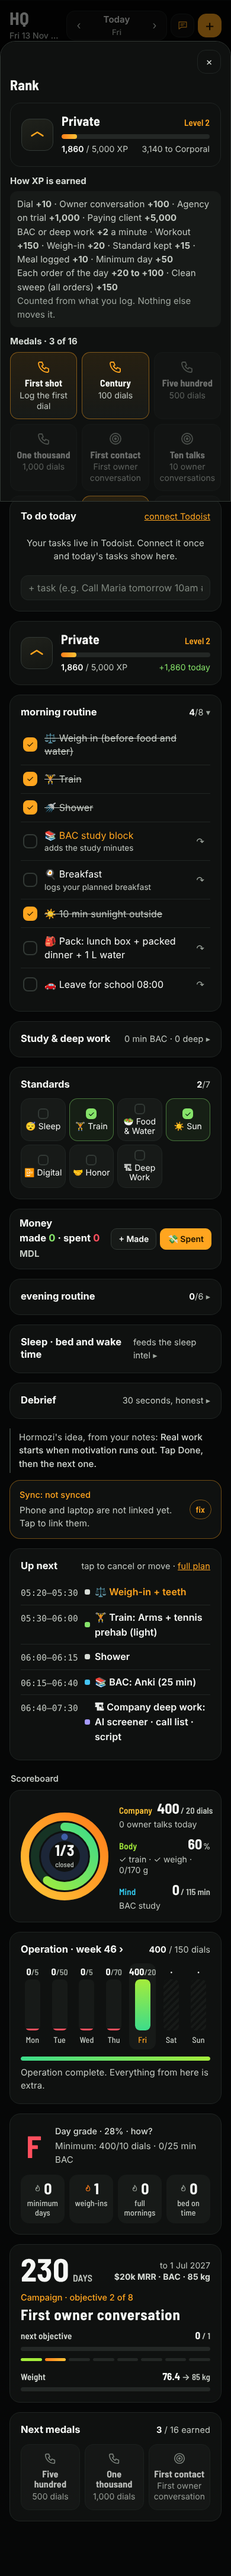
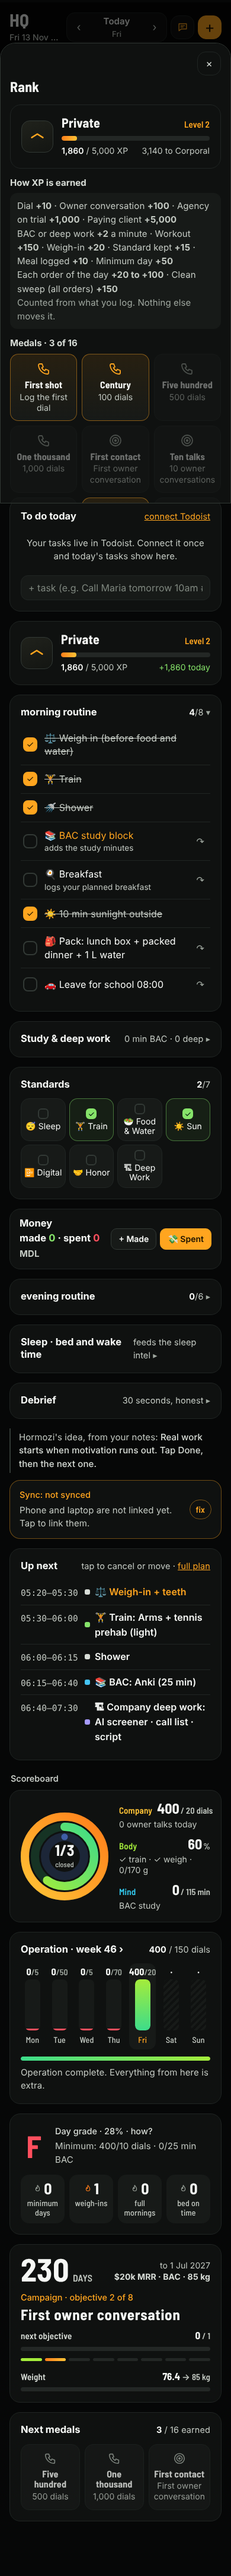
v5.9.5: food AI answers fast — second model races the first after 9 s (first good answer wins), 30 s cap, 1024 px photos; 'put the phone away' logs the meal in the background with a Check toast
Claude-Session: https://claude.ai/code/session_011KYPGP8ex3tqEWd6rc2947

diff --git a/food.js b/food.js
@@ -58,20 +58,20 @@ function aiExplain(msg) {
   return 'The AI service answered with an error. Send Claude the grey text below (never the key).';
 }
 /* every AI request has a hard time limit, so the screen can never hang: a slow model is dropped and the next one is tried */
-let aiAbort = null;
-function aiFetch(url, opt, ms) { const ctl = new AbortController(); aiAbort = ctl; const t = setTimeout(() => ctl.abort('timeout'), ms || 60000); return fetch(url, Object.assign({}, opt, { signal: ctl.signal })).catch((e) => { const err = new Error(ctl.signal.aborted ? (ctl.signal.reason === 'cancel' ? 'Cancelled' : 'TIMEOUT: no answer in ' + Math.round((ms || 60000) / 1000) + ' s') : String(e.message || e)); err.status = ctl.signal.aborted ? 408 : 0; throw err; }).finally(() => clearTimeout(t)); }
-function aiCancel() { if (aiAbort) aiAbort.abort('cancel'); }
+const aiCtls = new Set();
+function aiFetch(url, opt, ms, grp) { const ctl = new AbortController(); aiCtls.add(ctl); if (grp) grp.add(ctl); const t = setTimeout(() => ctl.abort('timeout'), ms || 60000); return fetch(url, Object.assign({}, opt, { signal: ctl.signal })).catch((e) => { const err = new Error(ctl.signal.aborted ? (ctl.signal.reason === 'cancel' ? 'Cancelled' : 'TIMEOUT: no answer in ' + Math.round((ms || 60000) / 1000) + ' s') : String(e.message || e)); err.status = ctl.signal.aborted ? 408 : 0; throw err; }).finally(() => { clearTimeout(t); aiCtls.delete(ctl); if (grp) grp.delete(ctl); }); }
+function aiCancel() { aiCtls.forEach((c) => c.abort('cancel')); }
 const AI_FAST = ['gemini-flash-latest', 'gemini-2.5-flash', 'gemini-flash-lite-latest'];
-async function aiCall(c, b64, hint, model) {
+async function aiCall(c, b64, hint, model, grp) {
   const prompt = AI_PROMPT + (hint ? `\nThe person adds: "${hint}". Trust this over what you see.` : '') + (b64 ? '' : '\nThere is no photo. Estimate from the description only.');
   if (c.provider === 'anthropic') {
     const content = []; if (b64) content.push({ type: 'image', source: { type: 'base64', media_type: 'image/jpeg', data: b64 } }); content.push({ type: 'text', text: prompt });
-    const r = await aiFetch('https://api.anthropic.com/v1/messages', { method: 'POST', headers: { 'content-type': 'application/json', 'x-api-key': c.key, 'anthropic-version': '2023-06-01', 'anthropic-dangerous-direct-browser-access': 'true' }, body: JSON.stringify({ model, max_tokens: 900, messages: [{ role: 'user', content }] }) });
+    const r = await aiFetch('https://api.anthropic.com/v1/messages', { method: 'POST', headers: { 'content-type': 'application/json', 'x-api-key': c.key, 'anthropic-version': '2023-06-01', 'anthropic-dangerous-direct-browser-access': 'true' }, body: JSON.stringify({ model, max_tokens: 900, messages: [{ role: 'user', content }] }) }, 30000, grp);
     const j = await r.json().catch(() => ({})); if (!r.ok) { const e = new Error((j.error && j.error.message) || 'HTTP ' + r.status); e.status = r.status; throw e; }
     return aiParse((j.content || []).filter((x) => x.type === 'text').map((x) => x.text).join(''));
   }
   const parts = []; if (b64) parts.push({ inline_data: { mime_type: 'image/jpeg', data: b64 } }); parts.push({ text: prompt });
-  const send = (cfg) => aiFetch(`https://generativelanguage.googleapis.com/v1beta/models/${encodeURIComponent(model)}:generateContent`, { method: 'POST', headers: { 'content-type': 'application/json', 'x-goog-api-key': c.key }, body: JSON.stringify(Object.assign({ contents: [{ parts }] }, cfg ? { generationConfig: cfg } : {})) }, 60000);
+  const send = (cfg) => aiFetch(`https://generativelanguage.googleapis.com/v1beta/models/${encodeURIComponent(model)}:generateContent`, { method: 'POST', headers: { 'content-type': 'application/json', 'x-goog-api-key': c.key }, body: JSON.stringify(Object.assign({ contents: [{ parts }] }, cfg ? { generationConfig: cfg } : {})) }, 30000, grp);
   // accuracy first: the model keeps its full reasoning (portion sizes are where estimates go wrong); the time limit + fallback protect against hangs
   const think = /gemini-2\.5/.test(model) && !/lite/.test(model) ? { thinkingConfig: { thinkingBudget: 2048 } } : {};
   let r = await send(Object.assign({ temperature: 0.2, responseMimeType: 'application/json' }, think)), j = await r.json().catch(() => ({}));
@@ -82,17 +82,28 @@ async function aiCall(c, b64, hint, model) {
   if (!text) throw new Error('The model sent an empty answer' + (cand.finishReason ? ' (' + cand.finishReason + ')' : ''));
   return aiParse(text);
 }
-/* Try the saved model, then the alternates. A model that is missing or out of quota is skipped; a bad key stops at once. */
+/* Fast and accurate at once: the best model starts first; if it has not answered in 9 s a second model starts in parallel,
+   and the first good answer wins (the other request is cancelled). Overload gets one quick retry; a bad key stops at once. */
+const AI_HEDGE_MS = 9000;
+function aiFatal(e) { return /Cancelled/.test(e.message) || /API key not valid|API_KEY_INVALID|location is not supported/i.test(e.message) || !(e.status === 404 || e.status === 408 || e.status === 429 || e.status === 503 || e.status === 500 || e.status === 400 || e.status === 0 || /not found|quota|overloaded|unavailable|high demand|TIMEOUT|JSON|empty/i.test(e.message)); }
 async function aiEstimate(b64, hint, cfgOverride) {
   const c = cfgOverride || aiCfg(); if (!c.key) throw new Error('Photo AI is not set up yet');
-  const list = [c.model].concat(c.alts || [], c.provider === 'anthropic' ? ['claude-haiku-5-5'] : AI_FAST).filter((x, i, a) => x && a.indexOf(x) === i).slice(0, 5);
-  let last = null;
-  for (const m of list) {
-    aiStatus.model = m; aiStatus.tries++; aiTick();
-    try { const t0 = Date.now(); let out; try { out = await aiCall(c, b64, hint, m); } catch (e1) { if (!(e1.status === 503 || /high demand|overloaded|UNAVAILABLE/i.test(e1.message))) throw e1; await new Promise((r) => setTimeout(r, 1500)); out = await aiCall(c, b64, hint, m); } out.ms = Date.now() - t0; if (!cfgOverride && m !== c.model) { c.alts = list.filter((x) => x !== m); c.model = m; try { localStorage.setItem(FOOD_AI_KEY, JSON.stringify(c)); } catch (e) { } if (c.shared) { try { aiShare(c, true); } catch (e) { } } } out.model = m; return out; }
-    catch (e) { last = e; last.model = m; if (/Cancelled/.test(e.message) || /API key not valid|API_KEY_INVALID|location is not supported/i.test(e.message) || !(e.status === 404 || e.status === 408 || e.status === 429 || e.status === 503 || e.status === 500 || e.status === 400 || e.status === 0 || /not found|quota|overloaded|unavailable|TIMEOUT|JSON|empty/i.test(e.message))) break; }
-  }
-  throw last || new Error('No model answered');
+  const list = [c.model].concat(c.alts || [], c.provider === 'anthropic' ? ['claude-haiku-5-5'] : AI_FAST).filter((x, i, a) => x && a.indexOf(x) === i).slice(0, 4);
+  const one = async (m, grp) => { try { return await aiCall(c, b64, hint, m, grp); } catch (e1) { if (!(e1.status === 503 || /high demand|overloaded|UNAVAILABLE/i.test(e1.message))) throw e1; await new Promise((r) => setTimeout(r, 1200)); return aiCall(c, b64, hint, m, grp); } };
+  return new Promise((resolve, reject) => {
+    let idx = 0, running = 0, done = false, last = null, primaryFailed = false; const groups = []; const t0 = Date.now();
+    const finish = (fn, v) => { if (done) return; done = true; clearInterval(hedge); groups.forEach((g) => g.forEach((x) => x.abort('cancel'))); fn(v); };
+    const launch = () => {
+      if (done || idx >= list.length) return false; const m = list[idx++], grp = new Set(); groups.push(grp); running++; aiStatus.model = m; aiStatus.tries++; aiTick();
+      one(m, grp).then((out) => { if (done) return; groups.splice(groups.indexOf(grp), 1); out.ms = Date.now() - t0; out.model = m;
+        if (!cfgOverride && m !== c.model && primaryFailed) { /* remember the model that actually answers */ c.alts = list.filter((x) => x !== m); c.model = m; try { localStorage.setItem(FOOD_AI_KEY, JSON.stringify(c)); } catch (e) { } if (c.shared) { try { aiShare(c, true); } catch (e) { } } }
+        finish(resolve, out); })
+        .catch((e) => { running--; if (done) return; last = e; e.model = m; if (m === list[0]) primaryFailed = true; if (aiFatal(e)) { finish(reject, e); return; } if (!launch() && running === 0) finish(reject, last); });
+      return true;
+    };
+    const hedge = setInterval(() => { if (!done && running < 2) launch(); }, AI_HEDGE_MS);
+    launch();
+  });
 }
 function foodAiModal() {
   const c = aiCfg(), prov = c.provider || 'gemini';
@@ -134,7 +145,7 @@ function foodSnap() { foodInputs(); $('food-cam').click(); }
 function foodPick() { foodInputs(); $('food-lib').click(); }
 async function foodFile(file) {
   let im; try { im = await loadImage(file); } catch (e) { toast('Could not read that photo'); return; }
-  const big = scaleImage(im, 1280, 0.82), thumb = scaleImage(im, 420, 0.8);
+  const big = scaleImage(im, 1024, 0.82), thumb = scaleImage(im, 420, 0.8);
   foodDraft = { id: uid(), name: '', kcal: '', p: '', c: '', f: '', mult: 1, items: [], photo: big, thumb, src: 'photo', isNew: true };
   if (view !== 'food') { view = 'food'; curDate = new Date(); curDate.setHours(0, 0, 0, 0); render(); }
   if (!aiOn()) { foodForm(); return; }
@@ -144,14 +155,25 @@ async function foodAnalyze(hint) {
   const d = foodDraft; if (!d) return;
   aiStatus = { t0: Date.now(), model: '', tries: 0 };
   openModal(`<h2>${d.photo ? 'Reading your plate' : 'Estimating your meal'}</h2>${d.photo ? `<img class="fphoto" src="${d.photo}" alt="">` : ''}<div class="scan"><div class="sp"></div><div class="lab" id="ai-prog">Estimating calories and macros…</div></div>
-    <div class="row" style="gap:8px;margin-top:12px"><button class="btn grow" onclick="aiCancel()">Cancel</button><button class="btn grow" onclick="aiCancel();setTimeout(()=>{foodDraft&&(delete foodDraft.err);foodForm()},50)">Type it instead</button></div>`, true);
+    <button class="btn primary block" style="margin-top:12px" onclick="foodBg()">Put the phone away · I'll log it when ready</button>
+    <div class="row" style="gap:8px;margin-top:8px"><button class="btn grow" onclick="aiCancel()">Cancel</button><button class="btn grow" onclick="aiCancel();setTimeout(()=>{foodDraft&&(delete foodDraft.err);foodForm()},50)">Type it instead</button></div>`, true);
   clearInterval(aiTimer); aiTimer = setInterval(aiTick, 1000);
-  try { const r = await aiEstimate(d.photo ? d.photo.split(',')[1] : '', hint || d.hint || ''); if (foodDraft !== d) return;
-    Object.assign(d, { name: r.name, kcal: r.kcal, p: r.p, c: r.c, f: r.f, items: r.items, conf: r.conf, note: r.note, base: { kcal: r.kcal, p: r.p, c: r.c, f: r.f }, mult: 1, src: 'ai', hint: hint || d.hint || '' }); foodForm();
-  } catch (e) { if (foodDraft !== d) return; if (/Cancelled/.test(e.message)) { clearInterval(aiTimer); return; } d.err = (/TIMEOUT/.test(e.message) ? 'No model answered in time. Check the internet connection, then tap Estimate again.' : aiExplain(e.message)) + ' (' + (e.model ? e.model + ': ' : '') + String(e.message || e).slice(0, 140) + ')'; foodForm(); }
+  try { const r = await aiEstimate(d.photo ? d.photo.split(',')[1] : '', hint || d.hint || '');
+    Object.assign(d, { name: r.name, kcal: r.kcal, p: r.p, c: r.c, f: r.f, items: r.items, conf: r.conf, note: r.note, base: { kcal: r.kcal, p: r.p, c: r.c, f: r.f }, mult: 1, src: 'ai', hint: hint || d.hint || '' });
+    if (d.bg) { foodBgDone(d); clearInterval(aiTimer); return; } if (foodDraft !== d) return; foodForm();
+  } catch (e) { if (d.bg) { clearInterval(aiTimer); foodBgFail(d, e); return; } if (foodDraft !== d) return; if (/Cancelled/.test(e.message)) { clearInterval(aiTimer); return; } d.err = (/TIMEOUT/.test(e.message) ? 'No model answered in time. Check the internet connection, then tap Estimate again.' : aiExplain(e.message)) + ' (' + (e.model ? e.model + ': ' : '') + String(e.message || e).slice(0, 140) + ')'; foodForm(); }
   clearInterval(aiTimer);
 }
-let aiStatus = { t0: 0, model: '', tries: 0 }, aiTimer = null;
+let aiStatus = { t0: 0, model: '', tries: 0 }, aiTimer = null, foodBgN = 0;
+/* background estimate: close the sheet, keep going; when the answer lands the meal is logged and a toast lets you check it */
+function foodBg() { const d = foodDraft; if (!d) return; d.bg = true; d.day = dk(curDate); foodBgN++; foodDraft = null; closeModal(); render(); toast('Estimating in the background. You\u2019ll get a note when it\u2019s logged.'); }
+function foodBgDone(d) {
+  foodBgN = Math.max(0, foodBgN - 1); const t = new Date(), rec = { id: d.id, t: pad(t.getHours()) + ':' + pad(t.getMinutes()), name: d.name || 'Meal', kcal: Number(d.kcal) || 0, p: Number(d.p) || 0, c: Number(d.c) || 0, f: Number(d.f) || 0, src: 'ai' };
+  if (d.photo) rec.ph = 1; meals(d.day).push(rec); if (d.thumb) phPut(d.id, dataUrlBlob(d.thumb)); touch(day(d.day)); render();
+  try { navigator.vibrate && navigator.vibrate([20, 40, 20]); } catch (e) { }
+  toast(`Logged: ${rec.name} · ${rec.kcal} kcal · ${rec.p} g protein`, 'Check', () => { curDate = pd(d.day); show('food'); foodEdit(rec.id); });
+}
+function foodBgFail(d, e) { foodBgN = Math.max(0, foodBgN - 1); render(); d.bg = false; d.err = aiExplain(e.message) + ' (' + (e.model ? e.model + ': ' : '') + String(e.message || e).slice(0, 120) + ')'; toast('The meal estimate failed', 'Fix it', () => { foodDraft = d; show('food'); foodForm(); }); }
 function aiTick() { const el = $('ai-prog'); if (!el) return; const s = Math.round((Date.now() - aiStatus.t0) / 1000); el.textContent = s < 6 ? 'Estimating calories and macros…' : `Waiting for ${aiStatus.model || 'the AI'} · ${s} s${aiStatus.tries > 1 ? ' · try ' + aiStatus.tries : ''}`; }
 function foodForm() {
   const d = foodDraft; if (!d) return; const sv = foodState().saved, ai = aiOn();
@@ -217,6 +239,7 @@ function renderFood() {
   const days = []; for (let i = 6; i >= 0; i--) { const d = addDays(curDate, -i), t = foodTotals(d); days.push({ l: DAY_SHORT[dow(d)], v: t.kcal, t: tt.kcal, cls: t.kcal >= tt.kcal * 0.9 ? 'hit' : '', top: t.kcal ? (t.kcal / 1000).toFixed(1) + 'k' : '', go: `dayDetail('${dk(d)}')`, today: dk(d) === dk(new Date()) }); }
   const hit = days.filter((x) => x.v >= tt.kcal * 0.9).length;
   const week = `<div class="card"><div class="card-h go" onclick="metricDetail('kcal')"><div class="card-t">Last 7 days · calories ›</div><div class="card-r"><b>${hit}</b>/7 on target</div></div>${vbars(days, { h: 130, max: tt.kcal * 1.1 })}<div class="legend"><span><i class="ln" style="background:var(--text);opacity:.5"></i>${fmt(tt.kcal)} kcal target</span><span><i style="background:var(--body)"></i>within 10%</span></div></div>`;
-  $('view-food').innerHTML = `<div class="fgrid"><div>${foodSummaryCard(k)}${add}</div><div>${log}${week}</div></div>`;
+  const bgc = foodBgN ? `<div class="card flat" style="border-color:rgba(255,165,31,.4)"><div class="row" style="gap:10px"><span class="spin"></span><div class="small">Estimating ${foodBgN} meal${foodBgN > 1 ? 's' : ''} in the background…</div></div></div>` : '';
+  $('view-food').innerHTML = `<div class="fgrid"><div>${bgc}${foodSummaryCard(k)}${add}</div><div>${log}${week}</div></div>`;
   hydratePhotos();
 }

diff --git a/index.html b/index.html
@@ -324,7 +324,7 @@ a{color:var(--acc)}
 .goal.done .n{color:var(--muted);text-decoration:line-through}
 .now-cur{font-size:19px;font-weight:700}.now-time{font-size:13.5px;color:var(--muted)}.now-next{font-size:14.5px;color:var(--sub);margin-top:6px}
 </style>
-<link rel="stylesheet" href="./v5.css?v=5.9.4">
+<link rel="stylesheet" href="./v5.css?v=5.9.5">
 </head>
 <body>
 <aside class="side" id="side"></aside>
@@ -353,23 +353,23 @@ a{color:var(--acc)}
 <nav class="nav"><div class="nav-in" id="nav"></div></nav>
 <div class="modal-bg" id="modal-bg"><div class="modal" id="modal"></div></div>
 <div class="toast" id="toast"></div>
-<script src="./core.js?v=5.9.4"></script>
-<script src="./train.js?v=5.9.4"></script>
-<script src="./dial.js?v=5.9.4"></script>
-<script src="./pipeline.js?v=5.9.4"></script>
-<script src="./todoist.js?v=5.9.4"></script>
-<script src="./game.js?v=5.9.4"></script>
-<script src="./food.js?v=5.9.4"></script>
-<script src="./stats.js?v=5.9.4"></script>
-<script src="./ops.js?v=5.9.4"></script>
-<script src="./devices.js?v=5.9.4"></script>
-<script src="./playbook.js?v=5.9.4"></script>
-<script src="./calendar.js?v=5.9.4"></script>
-<script src="./ask.js?v=5.9.4"></script>
-<script src="./flow.js?v=5.9.4"></script>
-<script src="./screen.js?v=5.9.4"></script>
-<script src="./drill.js?v=5.9.4"></script>
-<script src="./meet.js?v=5.9.4"></script>
-<script src="./views.js?v=5.9.4"></script>
+<script src="./core.js?v=5.9.5"></script>
+<script src="./train.js?v=5.9.5"></script>
+<script src="./dial.js?v=5.9.5"></script>
+<script src="./pipeline.js?v=5.9.5"></script>
+<script src="./todoist.js?v=5.9.5"></script>
+<script src="./game.js?v=5.9.5"></script>
+<script src="./food.js?v=5.9.5"></script>
+<script src="./stats.js?v=5.9.5"></script>
+<script src="./ops.js?v=5.9.5"></script>
+<script src="./devices.js?v=5.9.5"></script>
+<script src="./playbook.js?v=5.9.5"></script>
+<script src="./calendar.js?v=5.9.5"></script>
+<script src="./ask.js?v=5.9.5"></script>
+<script src="./flow.js?v=5.9.5"></script>
+<script src="./screen.js?v=5.9.5"></script>
+<script src="./drill.js?v=5.9.5"></script>
+<script src="./meet.js?v=5.9.5"></script>
+<script src="./views.js?v=5.9.5"></script>
 </body>
 </html>

diff --git a/sw.js b/sw.js
@@ -1,5 +1,5 @@
 /* War Room service worker: app shell cached for offline use, network-first so updates arrive. */
-const CACHE = 'warroom-v5.9.4';
+const CACHE = 'warroom-v5.9.5';
 const SHELL = ['./', './index.html', './core.js', './train.js', './dial.js', './pipeline.js', './todoist.js', './views.js', './game.js', './food.js', './stats.js', './ops.js', './devices.js', './playbook.js', './calendar.js', './ask.js', './meet.js', './flow.js', './screen.js', './drill.js', './v5.css', './fonts/barlow-semi-condensed-latin-500-normal.woff2', './fonts/barlow-semi-condensed-latin-600-normal.woff2', './fonts/barlow-semi-condensed-latin-700-normal.woff2', './fonts/inter-latin-400-normal.woff2', './fonts/inter-latin-500-normal.woff2', './fonts/inter-latin-600-normal.woff2', './fonts/inter-latin-700-normal.woff2', './queue_seed.json', './manifest.webmanifest', './icons/icon.svg', './icons/icon-192.png', './icons/icon-512.png', './icons/apple-touch-icon.png'];
 
 self.addEventListener('install', (e) => {

diff --git a/core.js b/core.js
@@ -1,6 +1,6 @@
 /* War Room v5 · core: state, data model, sync, derived numbers. Vanilla JS, offline-first. */
 'use strict';
-const APP_VERSION = '5.9.4';
+const APP_VERSION = '5.9.5';
 const STORE = 'warroom2';
 const DAY_SHORT = ['', 'Mon', 'Tue', 'Wed', 'Thu', 'Fri', 'Sat', 'Sun'];
 const DAY_LONG = ['', 'Monday', 'Tuesday', 'Wednesday', 'Thursday', 'Friday', 'Saturday', 'Sunday'];
